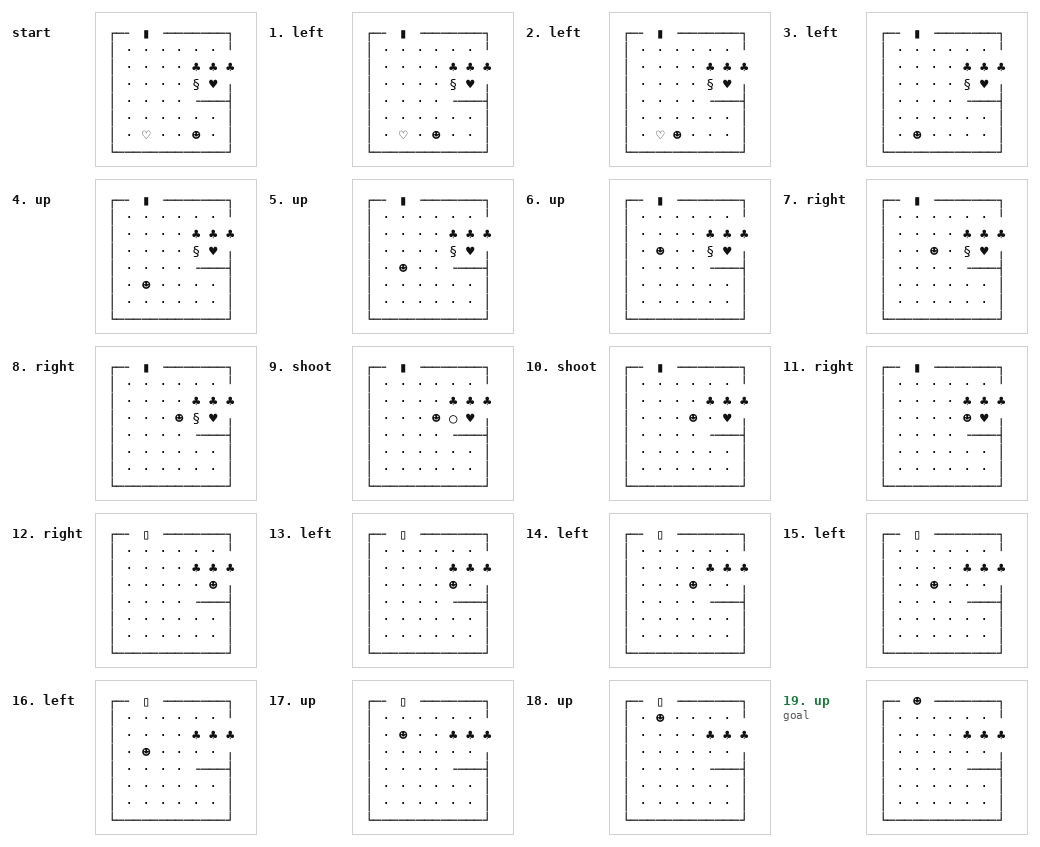
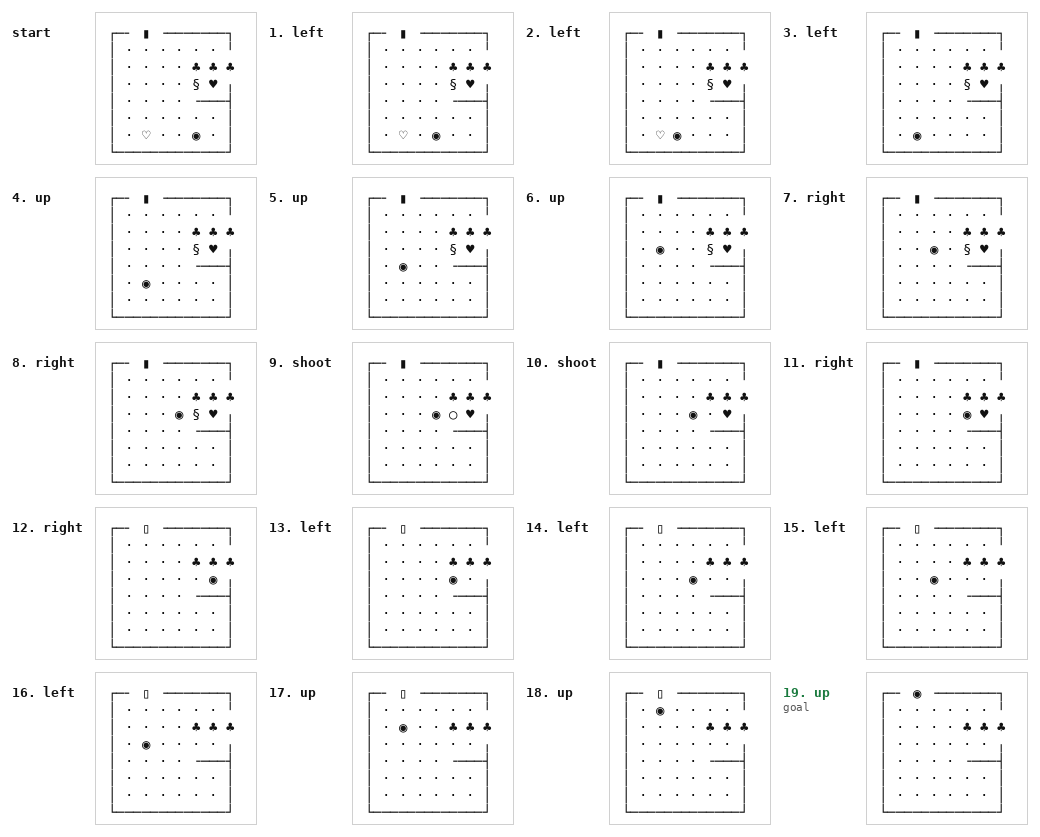
Draw Lolo as a ring rather than a face
Claude-Session: https://claude.ai/code/session_01CbUM6vVu3Q3wBSzyXUJpxb

diff --git a/planiverse/environments/games/lolo/environment.py b/planiverse/environments/games/lolo/environment.py
@@ -680,7 +680,7 @@ def render(state):
 #: open floor is a dot so the grid Lolo moves on shows.
 PICTURE = {
     FLOOR: "·", TREE: "♣", RIVER: "≈", BRIDGE: "═", FRAMER: "◆", HEART: "♥", MAGIC_HEART: "♡",
-    DESERT: "∴", BREAK_TILE: "×", FLOWER_BED: "✿", MARKER: "◇", EGG: "○", LOLO: "☻",
+    DESERT: "∴", BREAK_TILE: "×", FLOWER_BED: "✿", MARKER: "◇", EGG: "○", LOLO: "◉",
     "v": "▾", "<": "◂", "^": "▴", ">": "▸",
     SNAKEY: "§", LEEPER: "∞", GOL: "Ω", ROCKY: "Я", ALMA: "◐", SKULL: "☠", MEDUSA: "Ψ",
     DON_MEDUSA: "Ж",

diff --git a/tests/test_lolo.py b/tests/test_lolo.py
@@ -501,7 +501,7 @@ def test_the_picture_draws_the_room_in_symbols_the_renderer_has():
     assert not missing_glyphs(drawn)
     lines = drawn.split("\n")
     assert len(lines) == 8                      # eight rows
-    assert "☻" in drawn and "♥" in drawn and "♡" in drawn and "§" in drawn and "▮" in drawn
+    assert "◉" in drawn and "♥" in drawn and "♡" in drawn and "§" in drawn and "▮" in drawn
 
 
 def test_the_picture_follows_lolo_and_opens_the_door():

diff --git a/docs/environments/lolo.md b/docs/environments/lolo.md
@@ -315,7 +315,7 @@ blank.
 
 | Symbol | What |
 |---|---|
-| `☻` | Lolo (`✝` once a Medusa has caught him) |
+| `◉` | Lolo (`✝` once a Medusa has caught him) |
 | `♥`, `♡` | a heart framer, and a magic one worth two shots |
 | `▮`, `▯` | the door, shut and open |
 | `◆` | an Emerald Framer |
